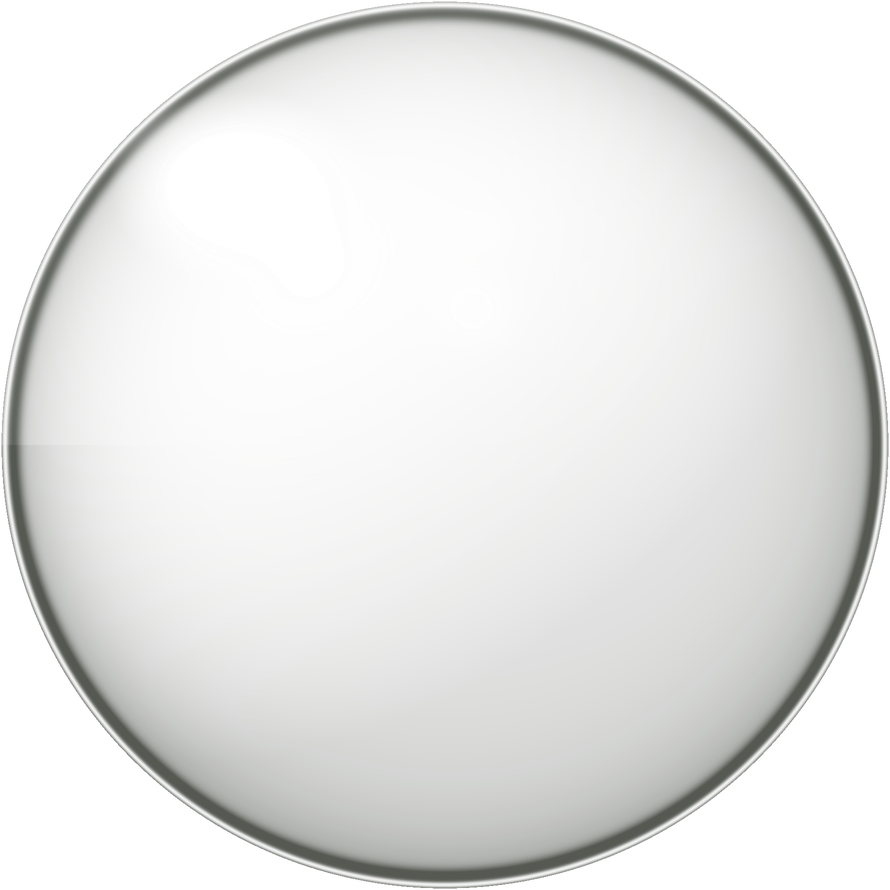
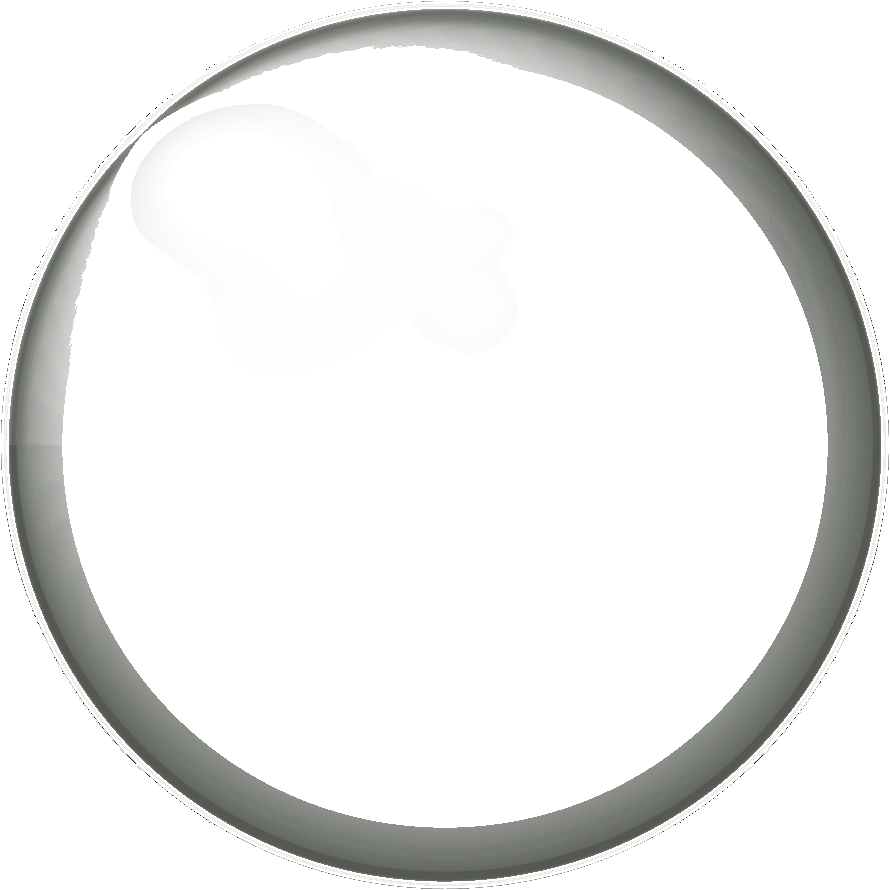
Clear the start orb: strip PNG veil, drop blur and wash (v15)
Process orb-glass.png to keep only the 10-11 specular and a dark
outer rim. Remove backdrop-filter, white fill, and the home wash
film so the garden reads through the glass.

diff --git a/assets/css/theme.css b/assets/css/theme.css
@@ -36,7 +36,7 @@ body.page {
   z-index: 0;
 }
 body.page .wash { background: rgba(255, 255, 255, 0.42); }
-body.home:not(.has-article) .wash { background: rgba(255, 255, 255, 0.06); }
+body.home:not(.has-article) .wash { background: transparent; }
 
 .test-banner {
   position: relative;
@@ -162,8 +162,7 @@ body.home:not(.has-article) .stage {
   border-radius: 50%;
 }
 
-/* 3D glass BALL — PNG chrome from the locked mockup (specular + rim + volume).
-   Light frost only. Garden must read through. No CSS gradient pancake. */
+/* Clear glass BALL — PNG chrome only (specular + dark rim). No frost, no milk. */
 .orb {
   position: relative;
   z-index: 1;
@@ -172,11 +171,11 @@ body.home:not(.has-article) .stage {
   aspect-ratio: 1 / 1;
   border-radius: 50%;
   flex-shrink: 0;
-  background: rgba(255, 255, 255, 0.04);
-  backdrop-filter: blur(5px) saturate(118%);
-  -webkit-backdrop-filter: blur(5px) saturate(118%);
-  border: 0;
-  box-shadow: none;
+  background: transparent;
+  backdrop-filter: none;
+  -webkit-backdrop-filter: none;
+  border: 2px solid rgba(255,255,255,0.78);
+  box-shadow: inset 0 0 0 2px rgba(20,24,14,0.28), inset 0 -22px 28px rgba(20,24,14,0.12), 0 18px 36px rgba(20,24,14,0.18);
   overflow: hidden;
   clip-path: circle(50%);
 }
@@ -184,13 +183,13 @@ body.home:not(.has-article) .stage {
   width: 100%;
   height: 100%;
 }
-/* Mockup glass chrome — full circle, above frost, below text. Highlight stays white. */
+/* Crisp PNG chrome — full-bleed, below text. Highlight stays white. */
 .orb::before {
   content: "";
   position: absolute;
   inset: 0;
   border-radius: 50%;
-  background: url("../img/orb-glass.png?v=14") center / 100% 100% no-repeat;
+  background: url("../img/orb-glass.png?v=15") center / 100% 100% no-repeat;
   pointer-events: none;
   z-index: 2;
   mix-blend-mode: normal;

diff --git a/anlaggning.html b/anlaggning.html
@@ -8,7 +8,7 @@
   <link rel="preconnect" href="https://fonts.googleapis.com">
   <link rel="preconnect" href="https://fonts.gstatic.com" crossorigin>
   <link href="https://fonts.googleapis.com/css2?family=Inter:wght@400;500;650&display=swap" rel="stylesheet">
-  <link rel="stylesheet" href="assets/css/site.css?v=14">
+  <link rel="stylesheet" href="assets/css/site.css?v=15">
   <link rel="stylesheet" href="assets/css/landings.css?v=7">
 </head>
 <body class="home has-article landing-anlagg" data-intent="garden.anlaggning">

diff --git a/plantering.html b/plantering.html
@@ -8,7 +8,7 @@
   <link rel="preconnect" href="https://fonts.googleapis.com">
   <link rel="preconnect" href="https://fonts.gstatic.com" crossorigin>
   <link href="https://fonts.googleapis.com/css2?family=Inter:wght@400;500;650&display=swap" rel="stylesheet">
-  <link rel="stylesheet" href="assets/css/site.css?v=14">
+  <link rel="stylesheet" href="assets/css/site.css?v=15">
   <link rel="stylesheet" href="assets/css/landings.css?v=7">
 </head>
 <body class="home has-article landing-plantera" data-intent="garden.plantera">

diff --git a/beskarning.html b/beskarning.html
@@ -8,7 +8,7 @@
   <link rel="preconnect" href="https://fonts.googleapis.com">
   <link rel="preconnect" href="https://fonts.gstatic.com" crossorigin>
   <link href="https://fonts.googleapis.com/css2?family=Inter:wght@400;500;650&display=swap" rel="stylesheet">
-  <link rel="stylesheet" href="assets/css/site.css?v=14">
+  <link rel="stylesheet" href="assets/css/site.css?v=15">
   <link rel="stylesheet" href="assets/css/landings.css?v=7">
 </head>
 <body class="home has-article landing-beskar" data-intent="garden.beskar">

diff --git a/robotgrasklippare-goteborg.html b/robotgrasklippare-goteborg.html
@@ -8,7 +8,7 @@
   <link rel="preconnect" href="https://fonts.googleapis.com">
   <link rel="preconnect" href="https://fonts.gstatic.com" crossorigin>
   <link href="https://fonts.googleapis.com/css2?family=Inter:wght@400;500;650&display=swap" rel="stylesheet">
-  <link rel="stylesheet" href="assets/css/site.css?v=14">
+  <link rel="stylesheet" href="assets/css/site.css?v=15">
   <link rel="stylesheet" href="assets/css/landings.css?v=7">
 </head>
 <body class="home has-article landing-robot" data-intent="robot.service">

diff --git a/robotgrasklippare-kungsbacka.html b/robotgrasklippare-kungsbacka.html
@@ -8,7 +8,7 @@
   <link rel="preconnect" href="https://fonts.googleapis.com">
   <link rel="preconnect" href="https://fonts.gstatic.com" crossorigin>
   <link href="https://fonts.googleapis.com/css2?family=Inter:wght@400;500;650&display=swap" rel="stylesheet">
-  <link rel="stylesheet" href="assets/css/site.css?v=14">
+  <link rel="stylesheet" href="assets/css/site.css?v=15">
   <link rel="stylesheet" href="assets/css/landings.css?v=7">
 </head>
 <body class="home has-article landing-robot" data-intent="robot.service">

diff --git a/robotgrasklippare-varberg.html b/robotgrasklippare-varberg.html
@@ -8,7 +8,7 @@
   <link rel="preconnect" href="https://fonts.googleapis.com">
   <link rel="preconnect" href="https://fonts.gstatic.com" crossorigin>
   <link href="https://fonts.googleapis.com/css2?family=Inter:wght@400;500;650&display=swap" rel="stylesheet">
-  <link rel="stylesheet" href="assets/css/site.css?v=14">
+  <link rel="stylesheet" href="assets/css/site.css?v=15">
   <link rel="stylesheet" href="assets/css/landings.css?v=7">
 </head>
 <body class="home has-article landing-robot" data-intent="robot.service">

diff --git a/robotgrasklippare.html b/robotgrasklippare.html
@@ -8,7 +8,7 @@
   <link rel="preconnect" href="https://fonts.googleapis.com">
   <link rel="preconnect" href="https://fonts.gstatic.com" crossorigin>
   <link href="https://fonts.googleapis.com/css2?family=Inter:wght@400;500;650&display=swap" rel="stylesheet">
-  <link rel="stylesheet" href="assets/css/site.css?v=14">
+  <link rel="stylesheet" href="assets/css/site.css?v=15">
   <link rel="stylesheet" href="assets/css/landings.css?v=7">
 </head>
 <body class="home has-article landing-robot" data-intent="robot.service">

diff --git a/altantvatt.html b/altantvatt.html
@@ -8,7 +8,7 @@
   <link rel="preconnect" href="https://fonts.googleapis.com">
   <link rel="preconnect" href="https://fonts.gstatic.com" crossorigin>
   <link href="https://fonts.googleapis.com/css2?family=Inter:wght@400;500;650&display=swap" rel="stylesheet">
-  <link rel="stylesheet" href="assets/css/site.css?v=14">
+  <link rel="stylesheet" href="assets/css/site.css?v=15">
   <link rel="stylesheet" href="assets/css/landings.css?v=7">
 </head>
 <body class="home has-article landing-altan" data-intent="garden.altan">

diff --git a/ograsrensning.html b/ograsrensning.html
@@ -8,7 +8,7 @@
   <link rel="preconnect" href="https://fonts.googleapis.com">
   <link rel="preconnect" href="https://fonts.gstatic.com" crossorigin>
   <link href="https://fonts.googleapis.com/css2?family=Inter:wght@400;500;650&display=swap" rel="stylesheet">
-  <link rel="stylesheet" href="assets/css/site.css?v=14">
+  <link rel="stylesheet" href="assets/css/site.css?v=15">
   <link rel="stylesheet" href="assets/css/landings.css?v=7">
 </head>
 <body class="home has-article landing-ogras" data-intent="garden.ogras">

diff --git a/grasklippning.html b/grasklippning.html
@@ -8,7 +8,7 @@
   <link rel="preconnect" href="https://fonts.googleapis.com">
   <link rel="preconnect" href="https://fonts.gstatic.com" crossorigin>
   <link href="https://fonts.googleapis.com/css2?family=Inter:wght@400;500;650&display=swap" rel="stylesheet">
-  <link rel="stylesheet" href="assets/css/site.css?v=14">
+  <link rel="stylesheet" href="assets/css/site.css?v=15">
   <link rel="stylesheet" href="assets/css/landings.css?v=7">
 </head>
 <body class="home has-article landing-grass" data-intent="garden.gras">

diff --git a/hackklippning-goteborg.html b/hackklippning-goteborg.html
@@ -8,7 +8,7 @@
   <link rel="preconnect" href="https://fonts.googleapis.com">
   <link rel="preconnect" href="https://fonts.gstatic.com" crossorigin>
   <link href="https://fonts.googleapis.com/css2?family=Inter:wght@400;500;650&display=swap" rel="stylesheet">
-  <link rel="stylesheet" href="assets/css/site.css?v=14">
+  <link rel="stylesheet" href="assets/css/site.css?v=15">
   <link rel="stylesheet" href="assets/css/landings.css?v=7">
 </head>
 <body class="home has-article landing-hack" data-intent="garden.hack">
